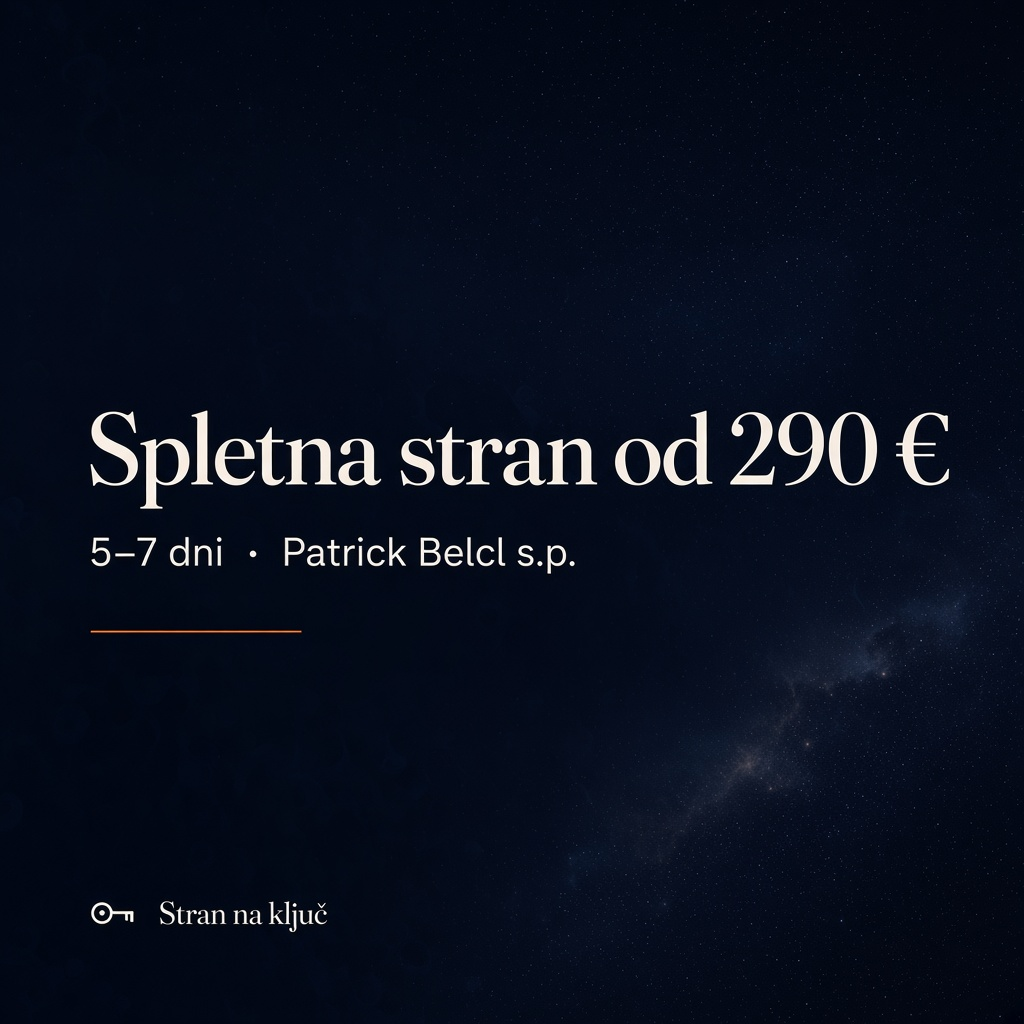
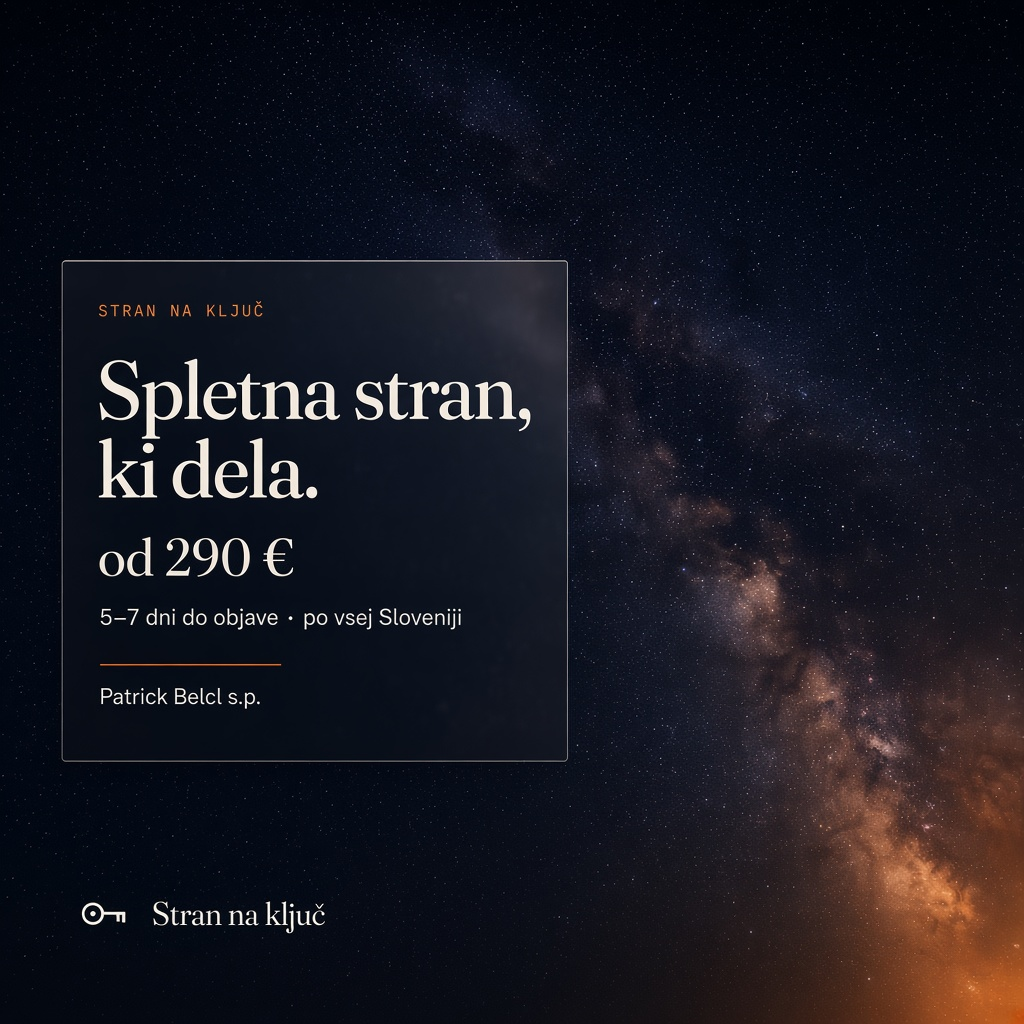
Rebuild Meta ads as a professional studio package.
Replace creatives with campaign-grade visuals and rewrite ad copy for sharper hooks, proof, and CTAs.

diff --git a/marketing/meta-ads/KAMPANJA.md b/marketing/meta-ads/KAMPANJA.md
@@ -39,9 +39,9 @@ V vsakem cold ad setu zaženite 3 oglase (1 vizual × 1 kot), nato po 5–7 dneh
 
 | Ad | Kot | Creative | Format |
 | --- | --- | --- | --- |
-| `AD1 \| Cena 290` | Ponudba / cena | `creatives/meta-oglas-cena-1x1.jpg` | Feed 1:1 |
-| `AD2 \| Hitrost 5–7 dni` | Rok / zaupanje | `creatives/meta-oglas-hitrost-4x5.jpg` | Feed 4:5 |
-| `AD3 \| Kalkulator` | Produkt / orodje | `creatives/meta-oglas-kalkulator-9x16.jpg` | Stories / Reels 9:16 |
+| `AD1 \| Stran, ki dela` | Ponudba / rezultat | `creatives/meta-oglas-cena-1x1.jpg` | Feed 1:1 |
+| `AD2 \| 5–7 dni` | Hitrost / zaupanje | `creatives/meta-oglas-hitrost-4x5.jpg` | Feed 4:5 |
+| `AD3 \| Kalkulator` | Lead orodje | `creatives/meta-oglas-kalkulator-9x16.jpg` | Stories / Reels 9:16 |
 
 ---
 
@@ -193,7 +193,7 @@ https://strannakljuc.si/?utm_source=meta&utm_medium=paid_social&utm_campaign=snk
 - [ ] Naloženi creativi iz `creatives/`
 - [ ] 3 oglasi z besedili zgoraj
 - [ ] UTM na vseh URL-jih
-- [ ] Proračun 25–40 €/dan, 10–14 dni brez večjih posegov
+- [ ] Proračun 8–10 €/dan (samo AS1), 10–14 dni brez večjih posegov
 - [ ] Tedenski pregled: CTR, CPC, CPL, kakovost leadov
 
 ---
